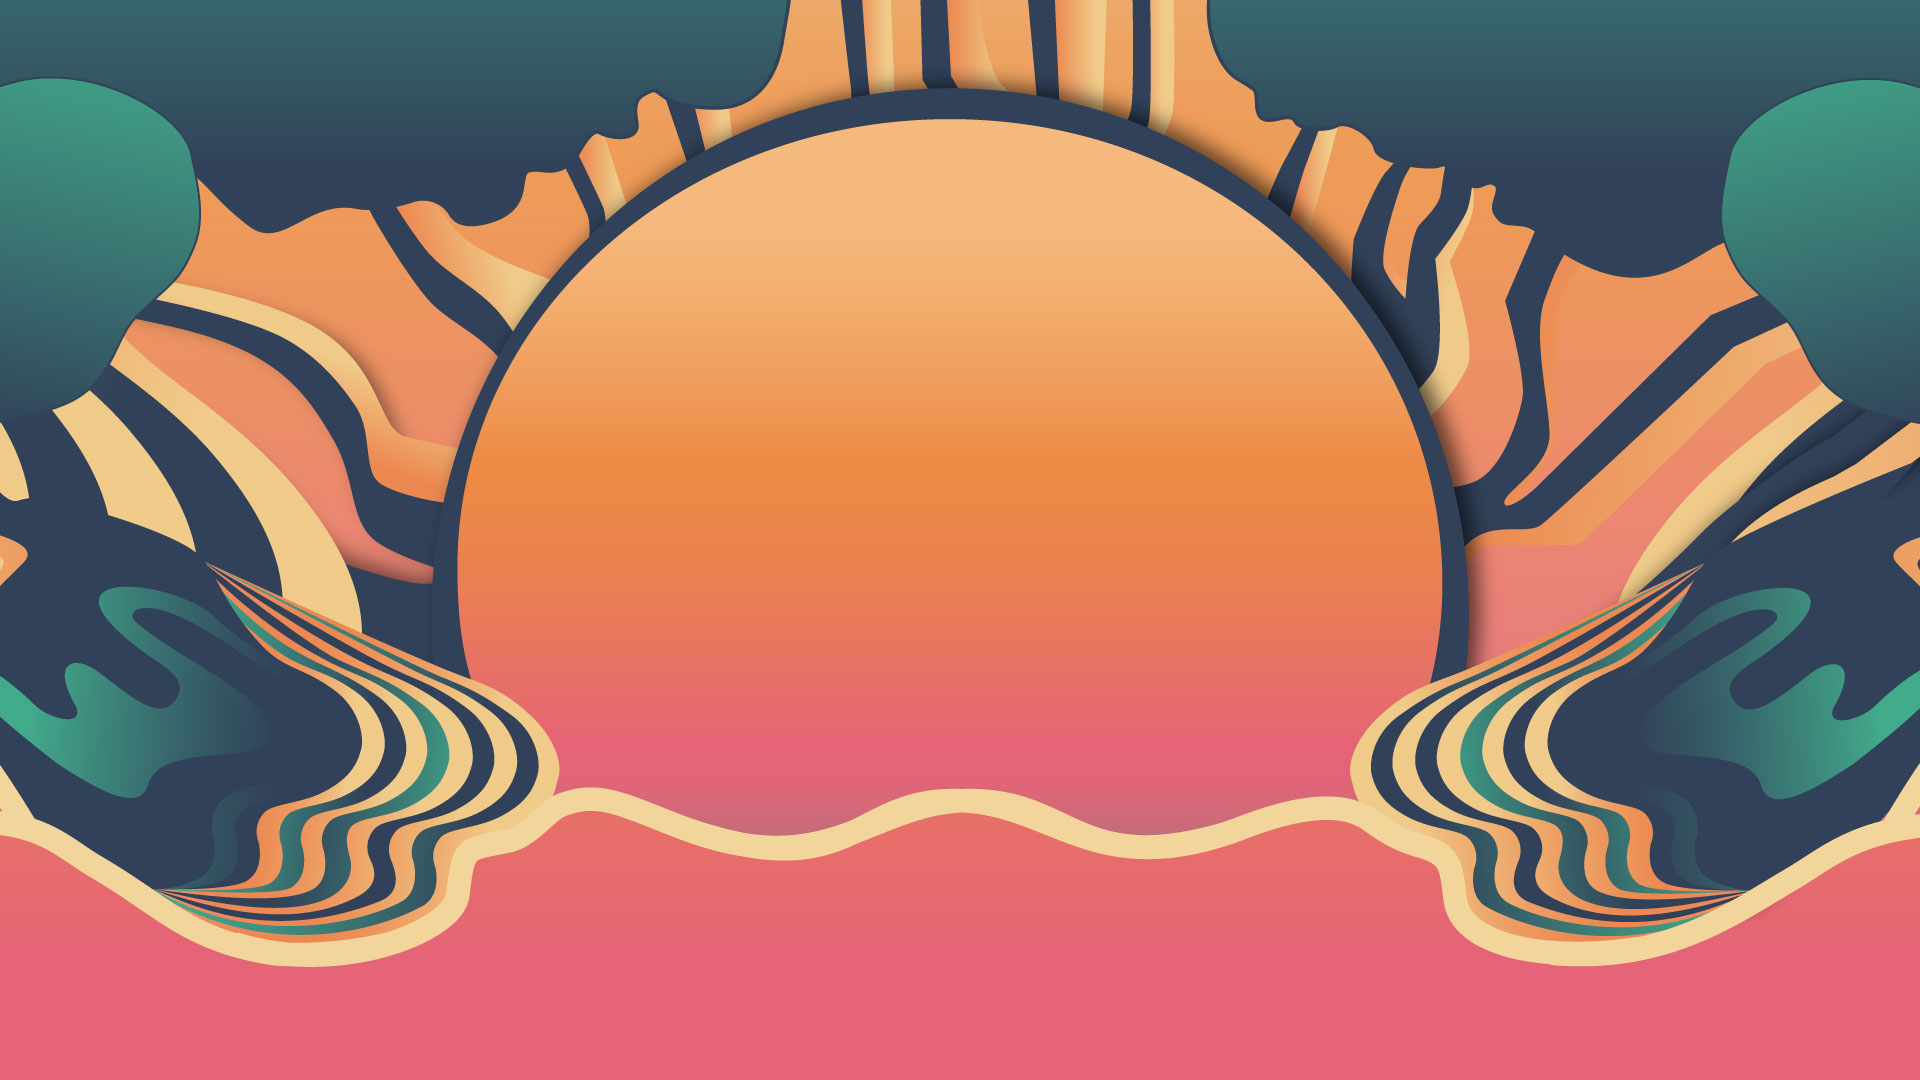
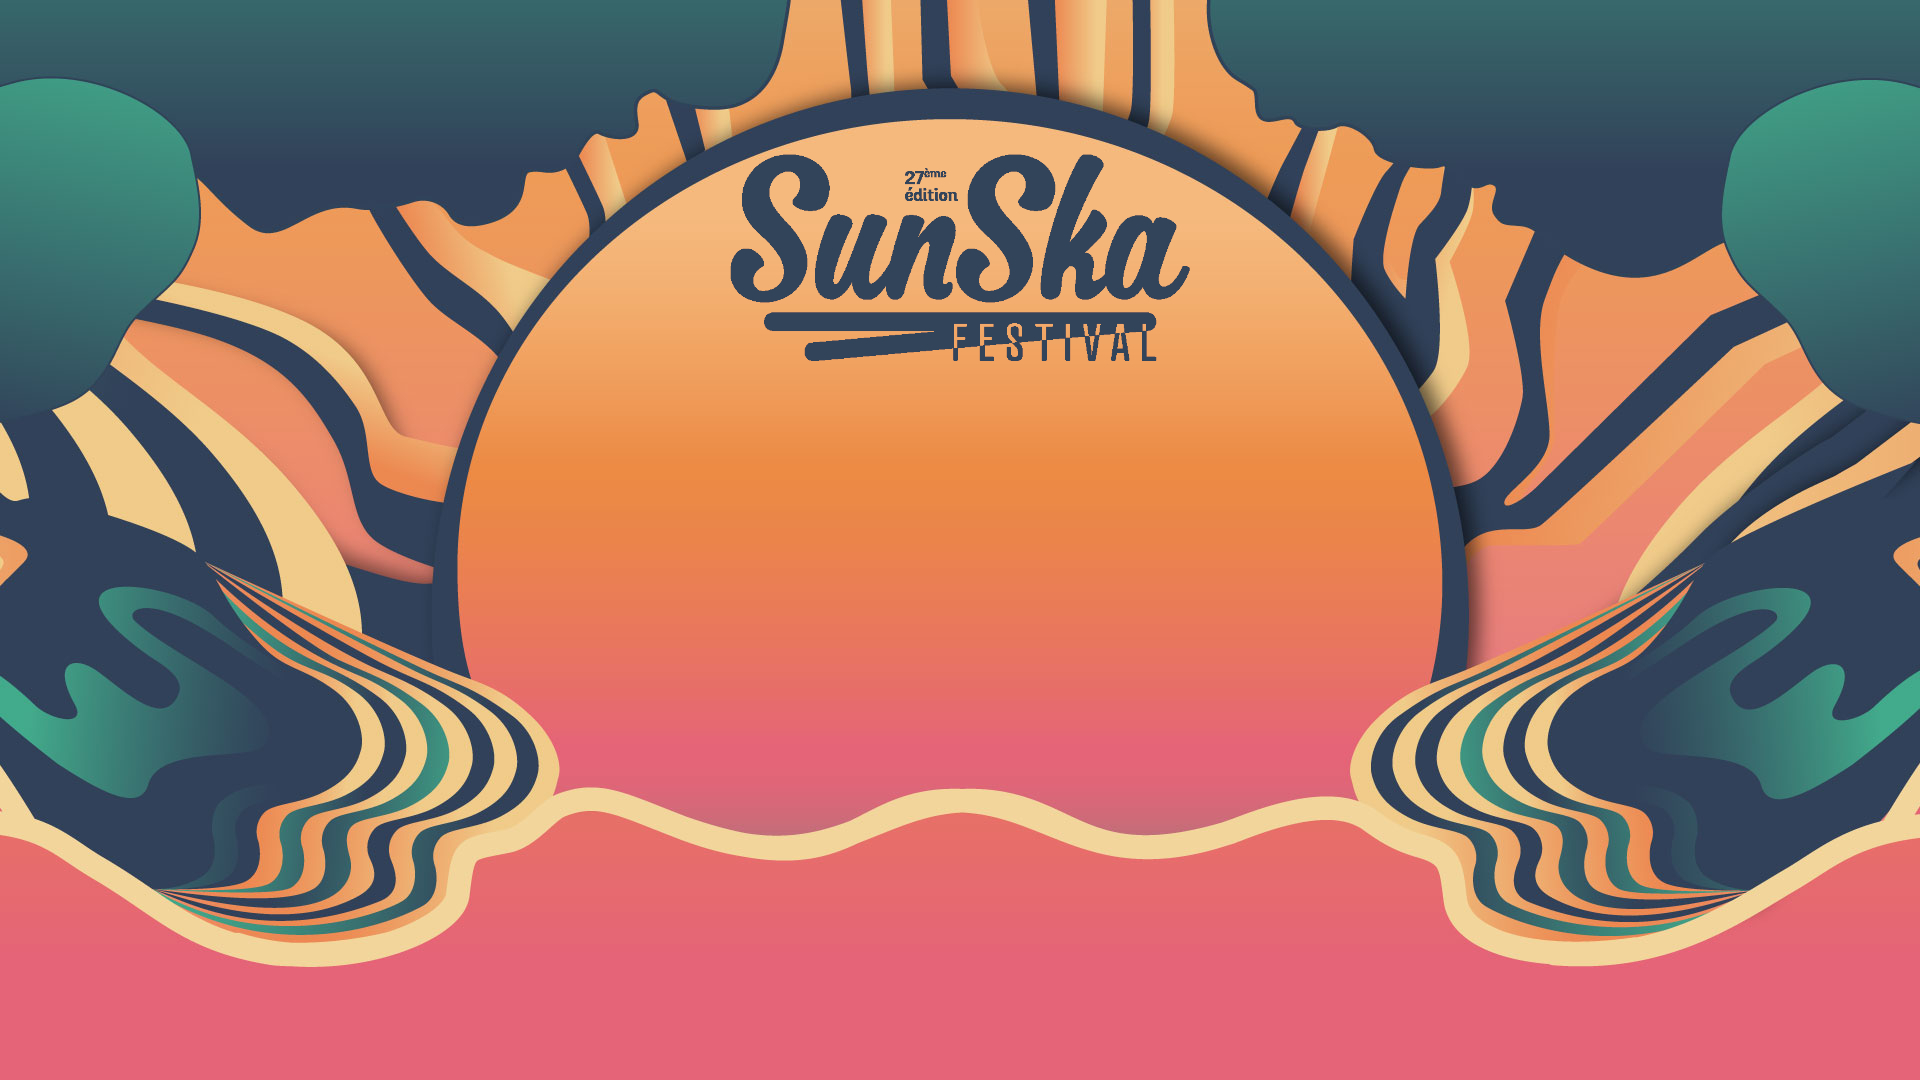
Page de connexion

Changed region(s): [[0.375, 0.1222, 0.625, 0.3361]]

diff --git a/sunska/src/component/connexion/Connexion.jsx b/sunska/src/component/connexion/Connexion.jsx
@@ -1,0 +1,19 @@
+
+import "./Connexion.css"
+const Connexion = () => {
+    return (
+        <div className="z-50">
+            <form action="post" className="flex flex-col">
+                <label for="login" className="font-bold mb-2">Identifiant</label>
+                <input placeholder="Identifiant" type="text" id="login" required className="rounded-lg mb-4 p-2"/>
+                <label for="password" className="font-bold mb-2">Mot de passe</label>
+                <input placeholder="Mot de passe" type="password" id="password" required className="rounded-lg mb-4 p-2"/>
+                <button formMethod="post" className="bg-bleugris hover:bg-bleugris text-white font-bold py-2 px-4 rounded w-min self-end">
+                    Connexion
+                </button>
+            </form>
+        </div>
+    );
+};
+
+export default Connexion;

diff --git a/sunska/src/page/ConnexionPage.jsx b/sunska/src/page/ConnexionPage.jsx
@@ -1,9 +1,12 @@
-import Connexion from "../component/Connexion";
+import Connexion from "../component/connexion/Connexion";
+import BackgroundImage from "../component/backgroundImage/BackgroundImage";
 
 const ConnexionPage = () => {
     return (
         <>
-            <Connexion />
+        <BackgroundImage>
+                <Connexion />
+        </BackgroundImage>
         </>
     );
 };

diff --git a/sunska/src/App.js b/sunska/src/App.js
@@ -1,5 +1,5 @@
+import { BrowserRouter, Route, Routes } from "react-router-dom";
 import './App.css';
-import {BrowserRouter, Route, Routes} from "react-router-dom";
 import ConnexionPage from "./page/ConnexionPage";
 import StockBarPage from "./page/StockBarPage";
 import Navbar from "./component/Navbar";

diff --git a/sunska/src/component/backgroundImage/BackgroundImage.jsx b/sunska/src/component/backgroundImage/BackgroundImage.jsx
@@ -1,0 +1,12 @@
+import React from 'react';
+import './BackgroundImage.css';
+
+const BackgroundImage = ({ children }) => {
+  return (
+    <div className="bg-image flex items-center justify-center min-h-screen bg-cover bg-center">
+      {children}
+    </div>
+  );
+};
+
+export default BackgroundImage;

diff --git a/sunska/tailwind.config.js b/sunska/tailwind.config.js
@@ -8,6 +8,10 @@ module.exports = {
       colors: {
         customGreen: '#3c7471',
         customHover: '#f28f43',
+        white:'#fff',
+        orange: '#f28f43',
+        bleugris: '#32445a',
+        vertbleu: '#3c7471',
       },
     },
   },

diff --git a/sunska/src/component/backgroundImage/BackgroundImage.css b/sunska/src/component/backgroundImage/BackgroundImage.css
@@ -1,0 +1,3 @@
+.bg-image {
+    background-image: url('../../asset/fond-festival-sunska-2024-web-2.jpg');
+  }

diff --git a/sunska/src/component/connexion/Connexion.css b/sunska/src/component/connexion/Connexion.css
@@ -1,0 +1,4 @@
+input {
+    width: 80svw;
+    max-width: 300px;
+}
